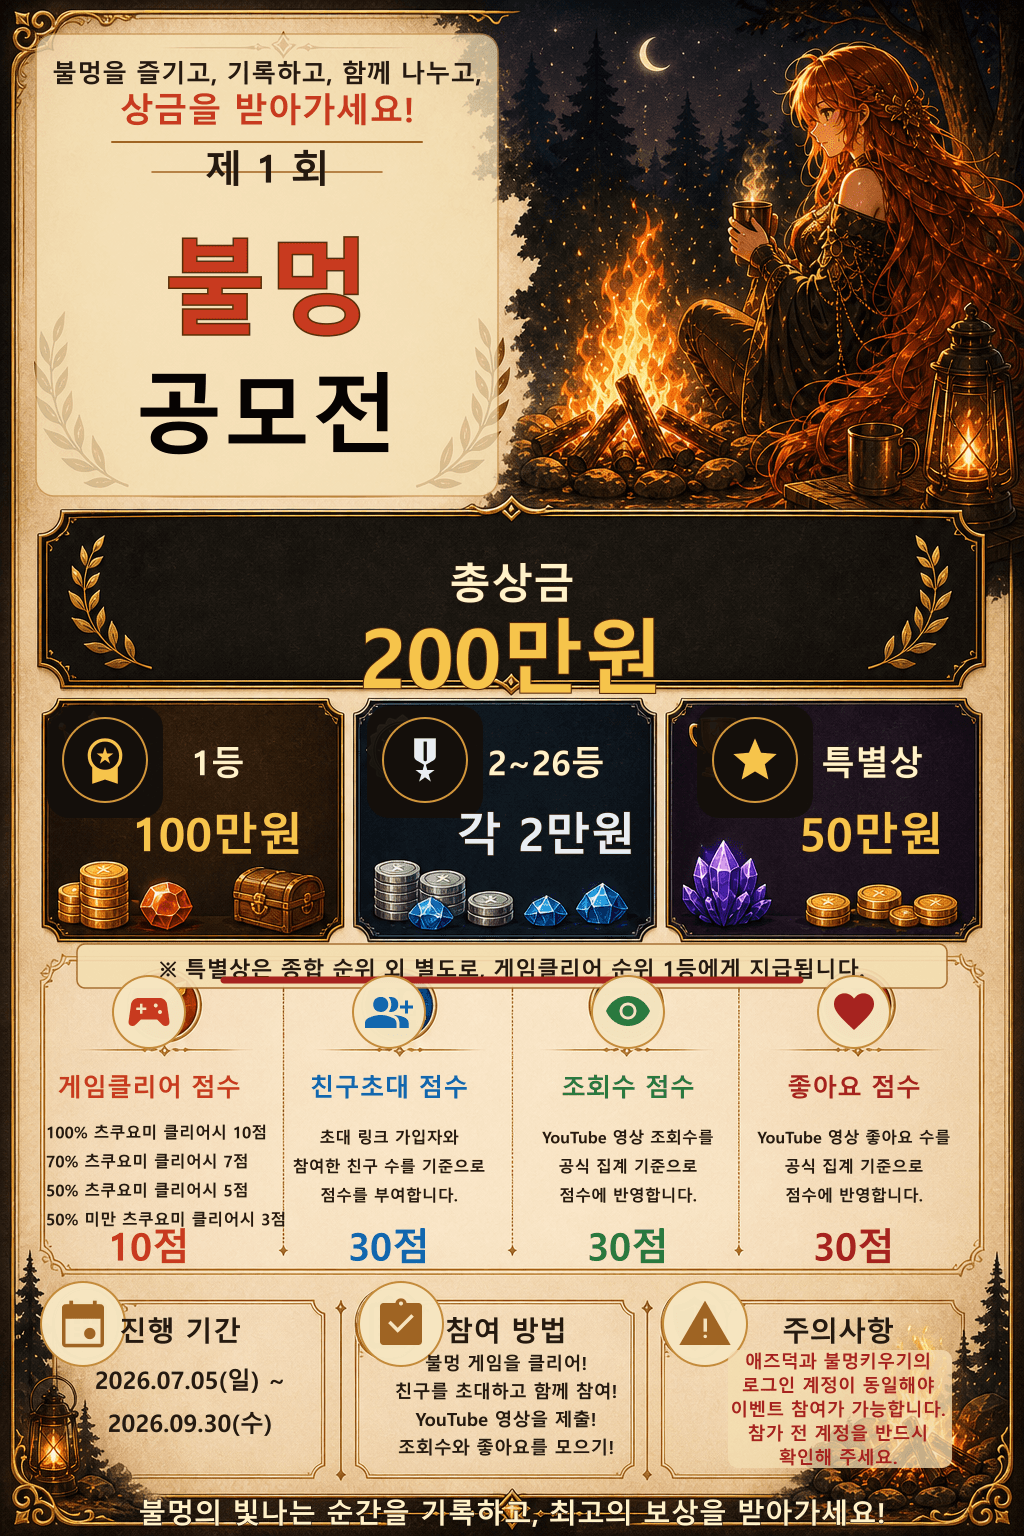
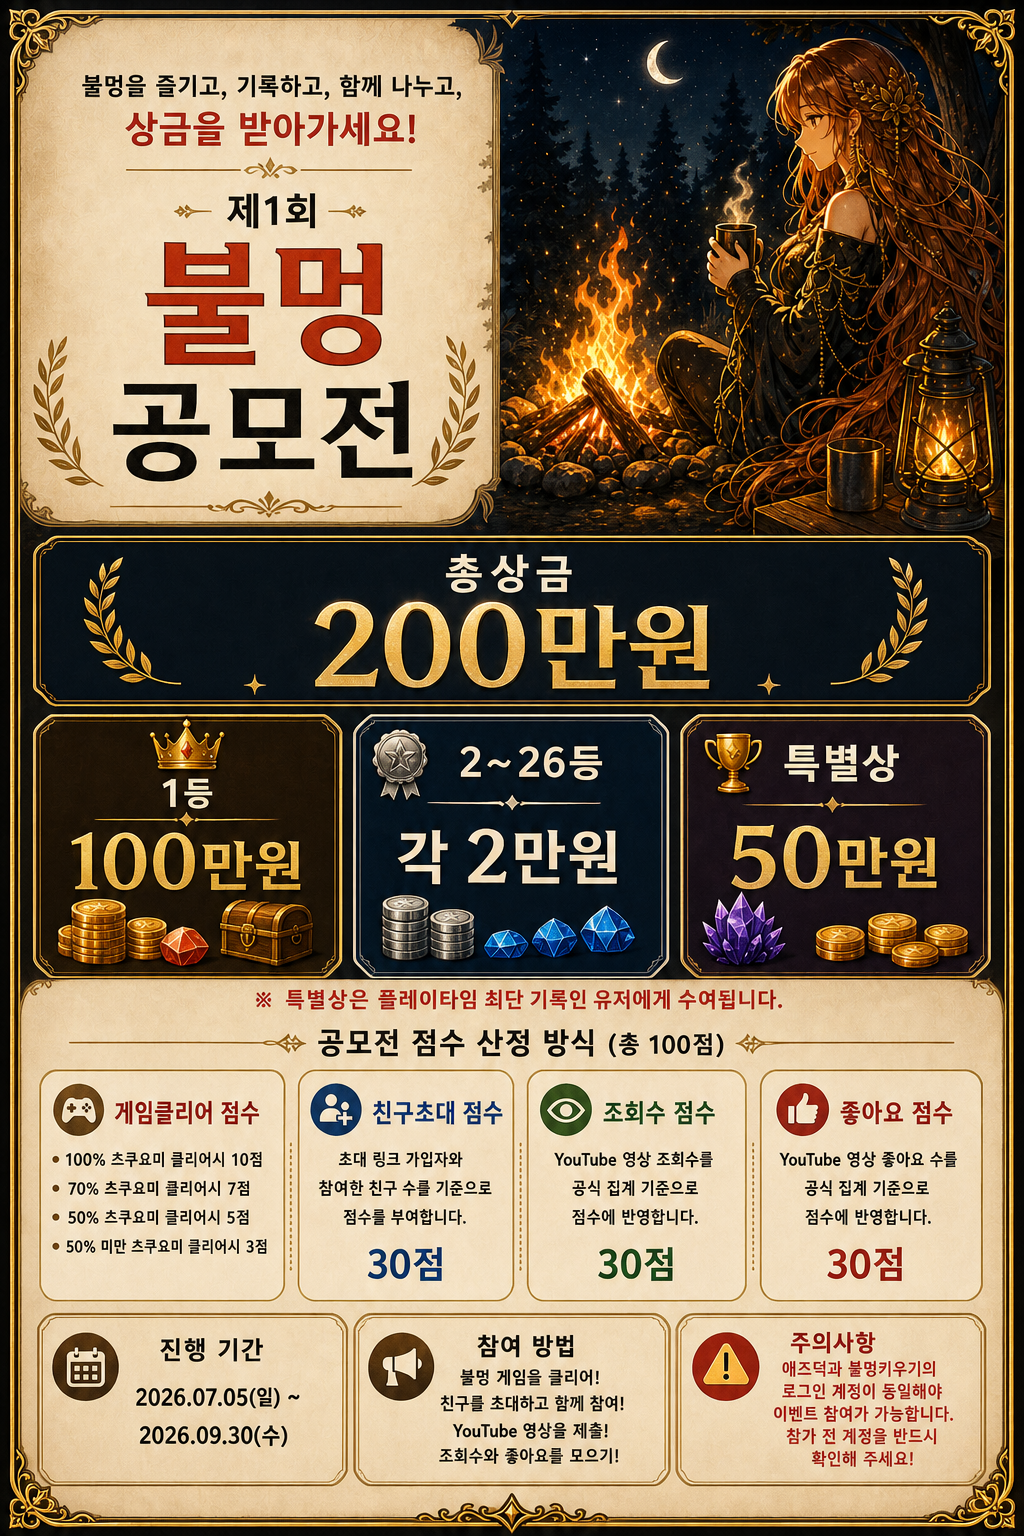
Update Bulmung contest pamphlet and special prize copy

diff --git a/src/data/contests.js b/src/data/contests.js
@@ -18,7 +18,7 @@ export const contests = [
       "공모전 기간: 2026.07.05 일요일 00:00 ~ 2026.09.30 수요일 23:59 KST",
       "종합 점수 100점: 게임클리어 점수 10점, 친구초대 30점, YouTube 조회수 30점, YouTube 좋아요 30점",
       "게임클리어 점수: 100퍼센트 츠쿠요미 클리어시 10점, 70퍼센트 7점, 50퍼센트 5점, 50퍼센트 미만 3점",
-      "특별상은 게임클리어 순위 1등에게 지급하며 종합상과 중복 수상 가능합니다.",
+      "특별상은 플레이타임 최단 기록인 유저에게 지급하며 종합상과 중복 수상 가능합니다.",
       "애즈덕과 불멍키우기의 로그인 계정이 동일해야 이벤트 참여가 가능합니다.",
       "동일인 중복 계정, 자동화 조회수, 비정상 좋아요, 허위 초대는 집계에서 제외됩니다.",
     ],

diff --git a/public/contests/bulmung-20260706/contest_rules.md b/public/contests/bulmung-20260706/contest_rules.md
@@ -13,9 +13,9 @@
 |---|---|---:|
 | 종합 1등 | 종합 점수 1위 | 100만원 |
 | 종합 2등~26등 | 종합 점수 2위부터 26위까지 | 각 2만원 |
-| 특별상 | 게임클리어 순위 1등 | 50만원 |
+| 특별상 | 플레이타임 최단 기록 | 50만원 |
 
-특별상은 종합상과 별도로 지급하며, 동일 참가자의 중복 수상이 가능합니다.
+특별상은 플레이타임 최단 기록인 유저에게 종합상과 별도로 지급하며, 동일 참가자의 중복 수상이 가능합니다.
 
 ## 3. 종합 점수 산정
 

diff --git a/public/contests/bulmung-20260706/contest_notice.md b/public/contests/bulmung-20260706/contest_notice.md
@@ -16,7 +16,7 @@
 - 종합 2등~26등: 각 2만원
 - 특별상: 50만원
 
-특별상은 종합 순위와 별개로 게임클리어 순위 1등에게 지급합니다. 종합상과 특별상은 중복 수상 가능합니다.
+특별상은 종합 순위와 별개로 플레이타임 최단 기록인 유저에게 지급합니다. 종합상과 특별상은 중복 수상 가능합니다.
 
 ## 종합 점수
 